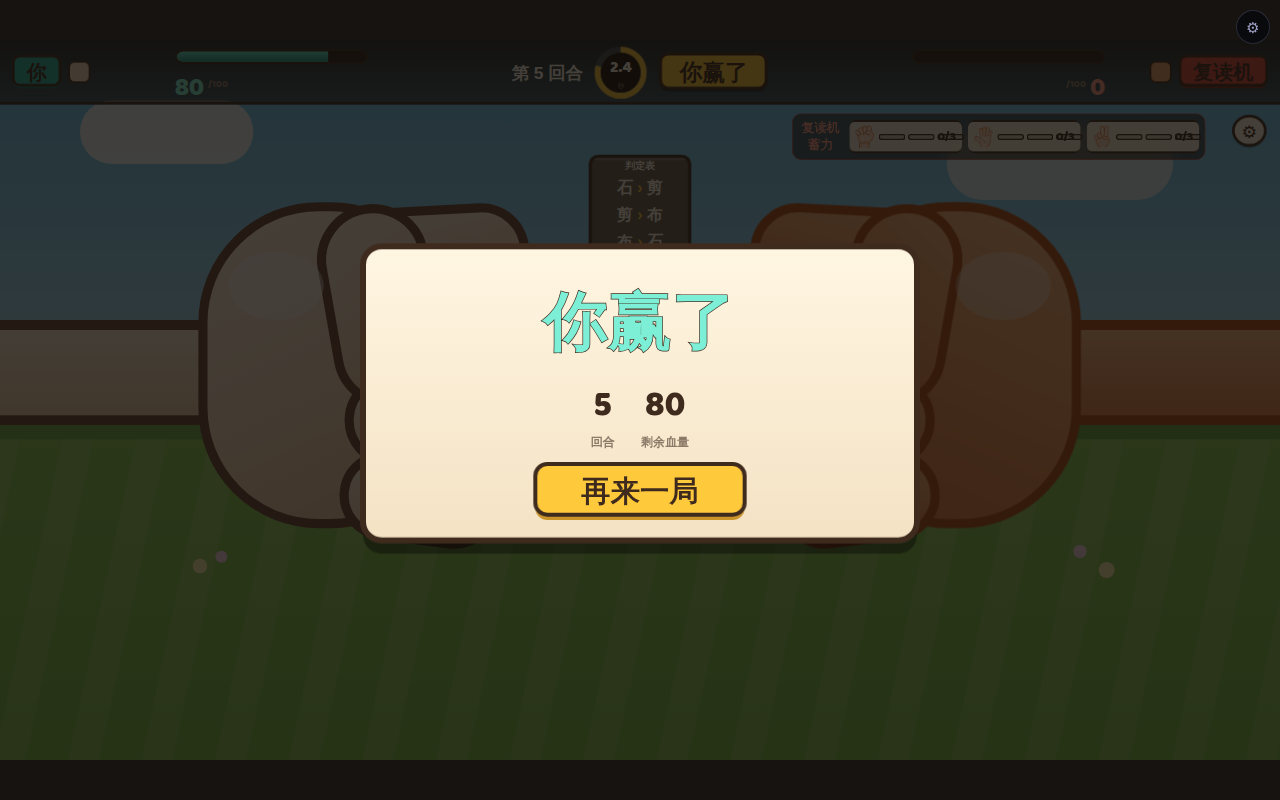
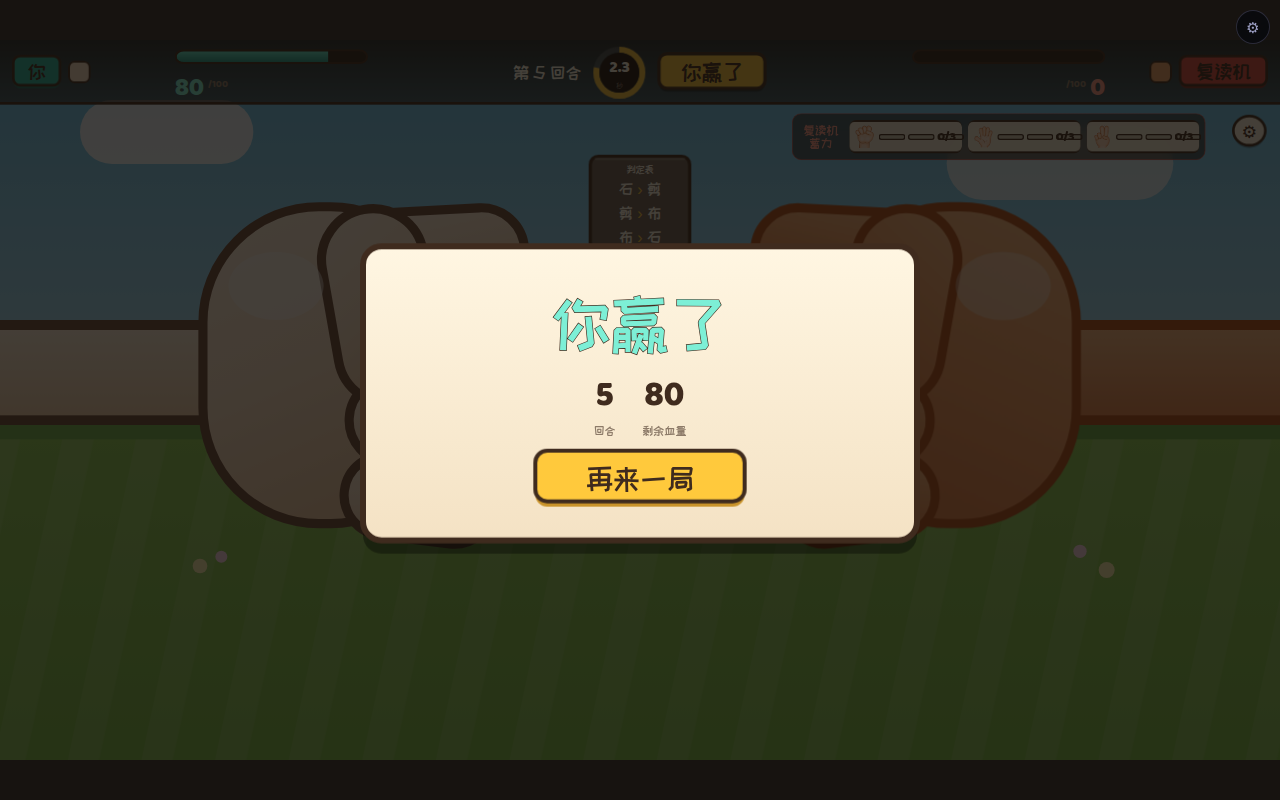
feat(game108): 切到 cnround（站酷快乐体）——与设计定稿同款中文字
PUI 按 REQ-108-UI-04 补的第 5 款 CJK 艺术字槽已到位（3f265259），就是稿子指定的
ZCOOL KuaiLe 本尊。`design-tokens.ts F.cjk` 从 'ui' 切到 'cnround'。
**本次复刻最大的单项视觉偏差（D1）就此关闭。**

同时撤掉中文上的 `bold:true`（20 处）：该字只有 400 一个字重，`bold` 触发的是浏览器
**合成粗体**（把字形横向铺开），在圆粗展示体上只会糊；稿子也是按 400 用的。
先前加 bold 是没有这款字时顶字重的权宜。数字那半仍 bold——Baloo 2 有真 500/600/700，
稿子指定 Fredoka 700。

顺手量出一处静默失效并报 PUI（REQ-108-UI-05）：CJK 子集脚本只扫 `src/**/*.ts(x)`、
**不扫 `games/**`** → 游戏层文案里 src 没出现过的汉字会**逐字回退**系统字，不报错不告警。
实测 game108 的 91 个汉字缺 3 个（莽/夫/徒，来自还没上场的对手名「莽夫」「赌徒」）。

门禁：tsc 干净 · 单测 24/24 · 真浏览器试玩 30/30 · scoped-gate 全绿。

Claude-Session: https://claude.ai/code/session_01CxgHiwPr3Q9y3548zpXfcV

diff --git a/games/game108/duel-screen.ts b/games/game108/duel-screen.ts
@@ -189,7 +189,7 @@ function idPlate(view: DuelView, side: Side): LayoutNode {
     layout: { width: w, height: h, direction: 'row', align: 'center', justify: 'center', padding: 0 },
     children: [{
       type: 'Label', id: `side-${side}-nt`,
-      props: { text: name, size: S.plate, font: F.cjk, bold: true, color: 'ink' },
+      props: { text: name, size: S.plate, font: F.cjk, color: 'ink' },
     }],
   };
   return {
@@ -249,7 +249,7 @@ function phaseBar(view: DuelView): LayoutNode {
     type: 'Panel', id: 'status', props: { bare: true },
     layout: { x: 566, y: 10, width: 788, height: 78, direction: 'row', align: 'center', justify: 'center', gap: 18 },
     children: [
-      { type: 'Label', id: 'round-b', props: { text: `第 ${view.round} 回合`, size: S.round, font: F.cjk, bold: true, color: 'text' } },
+      { type: 'Label', id: 'round-b', props: { text: `第 ${view.round} 回合`, size: S.round, font: F.cjk, color: 'text' } },
       {
         type: 'Panel', id: 'phase-ring',
         props: { skin: ring(L.ring, pct, accent, C.ringDisc, L.ringDisc) },
@@ -263,7 +263,7 @@ function phaseBar(view: DuelView): LayoutNode {
         type: 'Panel', id: 'phase-chip',
         props: { skin: plate({ w: chipW, h: 62, fill: accent, border: 5, radius: R.chip, shadow: SH.chip }) },
         layout: { width: chipW, height: 62, direction: 'row', align: 'center', justify: 'center', padding: 0 },
-        children: [{ type: 'Label', id: 'phase-t', props: { text: PHASE_CN[view.phase], size: S.phaseChip, font: F.cjk, bold: true, color: 'ink' } }],
+        children: [{ type: 'Label', id: 'phase-t', props: { text: PHASE_CN[view.phase], size: S.phaseChip, font: F.cjk, color: 'ink' } }],
       },
     ],
   };
@@ -346,7 +346,7 @@ function threatLine(view: DuelView): LayoutNode | null {
     children: [{
       type: 'Label', id: 'threat-t',
       props: {
-        size: S.threat, font: F.cjk, bold: true, color: 'text',
+        size: S.threat, font: F.cjk, color: 'text',
         spans: [
           { text: '⚠ 他攒满了一手' },
           { text: HAND_CN[top], color: 'gold' as const },
@@ -376,8 +376,8 @@ function foeStrip(view: DuelView): LayoutNode {
             type: 'Panel', id: 'foe-slots-t', props: { bare: true },
             layout: { width: 68, direction: 'column', align: 'center', gap: 0 },
             children: [
-              { type: 'Label', id: 'foe-slots-t1', props: { text: view.foeName, size: S.oppRead, font: F.cjk, bold: true, color: 'foe' } },
-              { type: 'Label', id: 'foe-slots-t2', props: { text: '蓄力', size: S.oppRead, font: F.cjk, bold: true, color: 'foe' } },
+              { type: 'Label', id: 'foe-slots-t1', props: { text: view.foeName, size: S.oppRead, font: F.cjk, color: 'foe' } },
+              { type: 'Label', id: 'foe-slots-t2', props: { text: '蓄力', size: S.oppRead, font: F.cjk, color: 'foe' } },
             ],
           },
           ...HANDS.map((h) => foeChip(view, h)),
@@ -394,7 +394,7 @@ function ruleSlab(): LayoutNode {
   const rows: LayoutNode[] = [['石', '剪'], ['剪', '布'], ['布', '石']].map(([a, b], i) => ({
     type: 'Label', id: `slab-r${i}`,
     props: {
-      size: S.slab, font: F.cjk, bold: true, color: 'text',
+      size: S.slab, font: F.cjk, color: 'text',
       spans: [{ text: a! }, { text: ' › ', color: 'gold' as const }, { text: b! }],
     },
   }));
@@ -412,7 +412,7 @@ function ruleSlab(): LayoutNode {
         },
         layout: { width: w, height: 152, direction: 'column', align: 'center', justify: 'center', gap: 8, padding: 10 },
         children: [
-          { type: 'Label', id: 'slab-h', props: { text: '判定表', size: S.slabHead, font: F.cjk, bold: true, color: 'text' } },
+          { type: 'Label', id: 'slab-h', props: { text: '判定表', size: S.slabHead, font: F.cjk, color: 'text' } },
           ...rows,
         ],
       },
@@ -420,7 +420,7 @@ function ruleSlab(): LayoutNode {
         type: 'Panel', id: 'slab-cap',
         props: { skin: plate({ w: 120, h: 22, fill: 'rgba(255,255,255,.7)', radius: 6 }) },
         layout: { width: 120, height: 22, direction: 'row', align: 'center', justify: 'center', padding: 0 },
-        children: [{ type: 'Label', id: 'slab-capt', props: { text: '道具可凿裂重刻', size: S.slabCap, font: F.cjk, bold: true, color: 'ink' } }],
+        children: [{ type: 'Label', id: 'slab-capt', props: { text: '道具可凿裂重刻', size: S.slabCap, font: F.cjk, color: 'ink' } }],
       },
     ],
   };
@@ -443,7 +443,7 @@ function banner(view: DuelView): LayoutNode | null {
     type: 'Panel', id: 'verdict',
     props: { skin: plate({ w: vw, h: 76, fill: C.verdict, border: B.verdict, radius: R.pill }) },
     layout: { width: vw, height: 76, direction: 'row', align: 'center', justify: 'center', padding: 0 },
-    children: [{ type: 'Label', id: 'verdict-t', props: { text: verdict, size: S.verdict, font: F.cjk, bold: true, color: 'text' } }],
+    children: [{ type: 'Label', id: 'verdict-t', props: { text: verdict, size: S.verdict, font: F.cjk, color: 'text' } }],
   }];
   if (!tie) {
     kids.push({
@@ -460,7 +460,7 @@ function banner(view: DuelView): LayoutNode | null {
     type: 'Panel', id: 'lane-line',
     props: { skin: plate({ w: lw, h: 62, fill: 'rgba(24,17,12,.86)', border: B.verdict, radius: R.pill }) },
     layout: { width: lw, height: 62, direction: 'row', align: 'center', justify: 'center', padding: 0 },
-    children: [{ type: 'Label', id: 'lane-t', props: { text: line, size: S.resultLine, font: F.cjk, bold: true, color: 'text' } }],
+    children: [{ type: 'Label', id: 'lane-t', props: { text: line, size: S.resultLine, font: F.cjk, color: 'text' } }],
   });
   return {
     type: 'Panel', id: 'lane', props: { bare: true },
@@ -499,9 +499,9 @@ function moveCard(view: DuelView, h: Hand, idx: number): LayoutNode {
     children: [child],
   });
   const kids: LayoutNode[] = [
-    band(`key-${h}-nb`, 38, { type: 'Label', id: `key-${h}-n`, props: { text: `${HAND_CN[h]} · ${HAND_FULL[h]}`, size: S.cardStrip, font: F.cjk, bold: true, color: 'text' } }),
+    band(`key-${h}-nb`, 38, { type: 'Label', id: `key-${h}-n`, props: { text: `${HAND_CN[h]} · ${HAND_FULL[h]}`, size: S.cardStrip, font: F.cjk, color: 'text' } }),
     band(`key-${h}-ib`, undefined, { type: 'Image', id: `key-${h}-i`, props: { src: HAND_ICON_SRC[h], alt: HAND_CN[h], fit: 'contain' }, layout: { width: 96, height: 104 } }),
-    band(`key-${h}-sb`, 48, { type: 'Label', id: `key-${h}-s`, props: { text: sub, size: throwing ? S.cardSub2 : S.cardSub, font: F.cjk, bold: true, color: disabled ? 'dim' : 'ink' } }),
+    band(`key-${h}-sb`, 48, { type: 'Label', id: `key-${h}-s`, props: { text: sub, size: throwing ? S.cardSub2 : S.cardSub, font: F.cjk, color: disabled ? 'dim' : 'ink' } }),
   ];
   if (badge) {
     kids.push({
@@ -511,7 +511,7 @@ function moveCard(view: DuelView, h: Hand, idx: number): LayoutNode {
         x: w - 86, y: -14, width: 96, height: 34,
         direction: 'row', align: 'center', justify: 'center', padding: 0, allowOverlap: true,
       },
-      children: [{ type: 'Label', id: `key-${h}-badget`, props: { text: badge, size: S.badge, font: F.cjk, bold: true, color: selected ? 'ink' : 'text' } }],
+      children: [{ type: 'Label', id: `key-${h}-badget`, props: { text: badge, size: S.badge, font: F.cjk, color: selected ? 'ink' : 'text' } }],
     });
   }
   return {
@@ -563,7 +563,7 @@ function mySlot(view: DuelView, h: Hand, idx: number): LayoutNode {
             type: 'Panel', id: `cb-p1-${h}-n`, props: { bare: true },
             layout: { flex: 1, direction: 'column', gap: 0, align: 'start' },
             children: [
-              { type: 'Label', id: `cb-p1-${h}-nt`, props: { text: `${HAND_CN[h]} ${HAND_FULL[h]}`, size: S.slotName, font: F.cjk, bold: true, color: 'ink' } },
+              { type: 'Label', id: `cb-p1-${h}-nt`, props: { text: `${HAND_CN[h]} ${HAND_FULL[h]}`, size: S.slotName, font: F.cjk, color: 'ink' } },
               { type: 'Label', id: `cb-p1-${h}-d`, props: { text: `现在打 ${DMG_AT(lv)}`, size: S.slotDmg, font: F.num, color: 'sub' } },
             ],
           },
@@ -601,7 +601,7 @@ function smokeKey(view: DuelView): LayoutNode {
     },
     children: [
       { type: 'Label', id: 'key-smoke-i', props: { text: '💨', size: S.smokeIcon } },
-      { type: 'Label', id: 'key-smoke-n', props: { text: `烟雾 ×${view.smoke.uses}`, size: S.smokeName, font: F.cjk, bold: true, color: 'ink' } },
+      { type: 'Label', id: 'key-smoke-n', props: { text: `烟雾 ×${view.smoke.uses}`, size: S.smokeName, font: F.cjk, color: 'ink' } },
       {
         type: 'Label', id: 'key-smoke-s',
         props: {
@@ -638,8 +638,8 @@ function bottomBar(view: DuelView): LayoutNode[] {
         type: 'Panel', id: 'my-slots-t', props: { bare: true },
         layout: { width: 56, direction: 'column', align: 'center', gap: 0 },
         children: [
-          { type: 'Label', id: 'my-slots-t1', props: { text: '我的', size: S.label, font: F.cjk, bold: true, color: 'jade' } },
-          { type: 'Label', id: 'my-slots-t2', props: { text: '蓄力', size: S.label, font: F.cjk, bold: true, color: 'jade' } },
+          { type: 'Label', id: 'my-slots-t1', props: { text: '我的', size: S.label, font: F.cjk, color: 'jade' } },
+          { type: 'Label', id: 'my-slots-t2', props: { text: '蓄力', size: S.label, font: F.cjk, color: 'jade' } },
         ],
       }],
     },
@@ -658,7 +658,7 @@ function endPanel(view: DuelView): LayoutNode[] {
     layout: { direction: 'column', align: 'center', gap: 2 },
     children: [
       { type: 'Label', id: `${id}-n`, props: { text: n, size: S.endStat, font: F.num, bold: true, color: 'ink' } },
-      { type: 'Label', id: `${id}-l`, props: { text: label, size: S.endLabel, font: F.cjk, bold: true, color: 'sub' } },
+      { type: 'Label', id: `${id}-l`, props: { text: label, size: S.endLabel, font: F.cjk, color: 'sub' } },
     ],
   });
   return [
@@ -684,7 +684,7 @@ function endPanel(view: DuelView): LayoutNode[] {
         anim: 'pop', animMs: 400, allowOverlap: true,
       },
       children: [
-        { type: 'Label', id: 'end-t', props: { text: won ? '你赢了' : '你输了', size: S.endTitle, font: F.cjk, bold: true, color: won ? 'jade' : 'danger', stroke: true } },
+        { type: 'Label', id: 'end-t', props: { text: won ? '你赢了' : '你输了', size: S.endTitle, font: F.cjk, color: won ? 'jade' : 'danger', stroke: true } },
         {
           type: 'Panel', id: 'end-stats', props: { bare: true },
           layout: { direction: 'row', align: 'center', justify: 'center', gap: 40 },
@@ -697,7 +697,7 @@ function endPanel(view: DuelView): LayoutNode[] {
             action: ACT.next,
           },
           layout: { width: 320, height: 90, direction: 'row', align: 'center', justify: 'center', padding: 0 },
-          children: [{ type: 'Label', id: 'key-next-t', props: { text: '再来一局', size: S.cta, font: F.cjk, bold: true, color: 'ink' } }],
+          children: [{ type: 'Label', id: 'key-next-t', props: { text: '再来一局', size: S.cta, font: F.cjk, color: 'ink' } }],
         },
       ],
     },

diff --git a/games/game108/design-tokens.ts b/games/game108/design-tokens.ts
@@ -62,15 +62,19 @@ export const C = {
 
 // ── 版式（README「Typography」+ dc.html 逐处字号）──────────────────────
 //
-// ⚠ **字体是本次复刻唯一的硬偏差**（已在 S5 对齐单逐条记账）：
-//   稿子用 ZCOOL KuaiLe（站酷快乐体·卡通中文）+ Fredoka（圆润数字）。
-//   我们的字体是**闭集槽**，CJK 只有 cnbrush/cnwen/jpbrush/jppen 四款，**没有卡通中文**；
-//   拉丁艺术字里 `bubbly`(Baloo 2) 与 Fredoka 同属圆润无衬线，是最近的替身。
-//   → 中文暂走主字体（`ui`），数字走 `bubbly`；缺口已开单请 PUI 加一个字体槽。
+// 字体：稿子用 ZCOOL KuaiLe（站酷快乐体·卡通粗中文）+ Fredoka（圆润数字）。
+//   · 中文 → **`cnround`**：PUI 2026-08-07 按 REQ-108-UI-04 补的第 5 款 CJK 艺术字槽，
+//     就是 ZCOOL KuaiLe 本尊（SIL OFL·子集化 woff2·url 惰性载）。**与稿子同款，此项偏差已清。**
+//   · 数字 → `bubbly`(Baloo 2)：与 Fredoka 同族圆润无衬线，是闭集里最近的替身（D2·记债不单开单）。
 export const F = {
-  cjk: 'ui' as const,        // 稿子要 ZCOOL KuaiLe —— 闭集里没有，暂用主字体（偏差在案）
-  num: 'bubbly' as const,    // 稿子要 Fredoka —— Baloo 2 同族圆润，最近替身
+  cjk: 'cnround' as const,
+  num: 'bubbly' as const,
 } as const;
+
+// ⚠ **中文一律不加 `bold`**：站酷快乐体只有 400 一个字重，`bold:true` 触发的是浏览器**合成粗体**
+//   （把字形横向铺开），在这种圆粗展示体上只会糊成一团，稿子也是按 400 用的。
+//   「字要饱满」这件事由字形本身解决——换字之前我用 bold 顶字重，是当时没有这款字的权宜。
+//   数字那半仍走 `bold`：Baloo 2 有真 500/600/700，稿子指定 Fredoka 700。
 
 /** 字号（画布 px·dc.html 逐处抄来）。 */
 export const S = {

diff --git a/docs/design/game108/self-check/S5-design-alignment.md b/docs/design/game108/self-check/S5-design-alignment.md
@@ -50,7 +50,7 @@ Everything in this design was drawn to map onto that widget set」——所以**
 
 | # | 差在哪 | 为什么 | 报给谁 |
 |---|---|---|---|
-| D1 | **中文字形**：稿子要 ZCOOL KuaiLe（卡通粗中文），我们渲的是主字体 + `bold` | `Label.font` 的 CJK 槽只有毛笔/细宋四款，**没有卡通粗体**；闭集只收枚举槽名，不收自由 font-family | **REQ-108-UI-04**（PUI·加一个槽·该字体同为 SIL OFL，与现有四款同产线） |
+| ~~D1~~ | ~~中文字形~~ | **✅ 已清（2026-08-07）**：PUI 按 `REQ-108-UI-04` 补了第 5 款 CJK 槽 `cnround` = **ZCOOL KuaiLe 本尊**（`3f265259`）。`F.cjk` 已切过去，真渲染目击字形与稿子一致。顺带撤掉了原先顶字重用的 `bold:true`——该字只有 400 一个字重，`bold` 触发的是浏览器合成粗体，在圆粗展示体上只会糊 | 已关闭 |
 | D2 | **数字字形**：稿子要 Fredoka，我们用 `bubbly`(Baloo 2) | 同族圆润无衬线，是闭集里最近的替身 | 同 D1 一并处理；不单独开单 |
 | D3 | **面的投影靠贴图**而非控件字段 | `PanelProps` 无投影字段（已实查） | **REQ-108-UI-03**（建议下沉 `Panel.shadow`） |
 | D4 | 伤害数字的 `text-shadow: 0 5px 0 #3f2b1e`（硬边墨投影）→ 我们用 `stroke + glow` | `Label` 有 `stroke`/`glow`，没有可配偏移的文字投影 | 并入 REQ-108-UI-03 的同类问题（记债·不单开） |
@@ -84,6 +84,10 @@ Everything in this design was drawn to map onto that widget set」——所以**
 
 ## 迭代记录
 
+- **第 2 轮（2026-08-07）**：`cnround` 到位 → D1 关闭（本次复刻最大的单项视觉偏差已清）。
+  同时撤掉中文的合成粗体。**新发现（已报 PUI·见 game108 requests REQ-108-UI-05）**：
+  CJK 子集脚本只扫 `src/**/*.ts(x)`，**不扫 `games/**`** → 游戏层文案里的生僻字会**逐字静默回退**系统字。
+  实测 game108 的 91 个汉字里缺 3 个（`莽` `夫` `徒`，来自还没上场的对手名「莽夫」「赌徒」）。
 - **第 1 轮（2026-08-07）**：按稿子重搭全屏。抓到 §3 的 1/2/4/5 四条。
   owner 当场指出两处：**牌不浮空**（→ §3.3 投影几何 bug，已修）、**字不够饱满**
   （→ D1，闭集缺件，已开 REQ-108-UI-04；先用 `bold` 顶住）。

diff --git a/docs/design/game108/requests.md b/docs/design/game108/requests.md
@@ -660,3 +660,17 @@ ENG-04 只给 `KeyBinding` 开了 `source`（玩家那条路），**AI 走的 `E
   这是**加一个槽**，不是放宽闭集，与手册「缺字体→提 requests 让主程加一个槽」的口径完全一致。
 - **验收**：`Label{font:'cnkuai'}` 能渲汉字；game108 把 `design-tokens.ts` 的 `F.cjk` 从 `'ui'` 改成它，
   与稿子 `screens/*.png` 并排看字形一致。
+
+### REQ-108-UI-05 · CJK 字体子集只扫 `src/**`，游戏层文案会逐字静默回退 · [2026-08-07] · status: open（PUI 工具债·低优先）
+
+- **病**：`scripts/cjk-art-font-vendor.py` 的子集字符集来自 `src/**/*.ts(x)`（脚本第 31 行的 glob），
+  **不含 `games/**`**。游戏层的文案只要用到一个 src 里没出现过的汉字，那个字就不在 woff2 里，
+  浏览器**逐字**回退系统字——同一行里混两种字形，**不报错、不告警**。
+- **实测**（game108 切到 `cnround` 时顺手量的）：本作屏上会出现的 91 个汉字里缺 3 个——
+  `莽` `夫` `徒`，来自对手名「莽夫」「赌徒」（当前只上场「复读机」，所以这一版看不出来，
+  等五名对手轮换上场就会露）。
+- **建议**：glob 加一行 `games/**/*.ts(x)`（子集会略大，但 CJK 子集本来就是按字取，增量很小）；
+  或更稳的做法是加一道**覆盖率检查**：扫 src+games 的汉字集，与生成的 woff2 cmap 对账，缺字报警。
+- **为什么不是我改**：`scripts/cjk-art-font-vendor.py` + `art-fonts-cjk.ts` 属 PUI 域（UI 基座），
+  按域边界报单不擅改。
+- **绕过**：无需绕过——缺的 3 个字当前不上屏；上屏前 PUI 重跑一次 vendor 即可。
